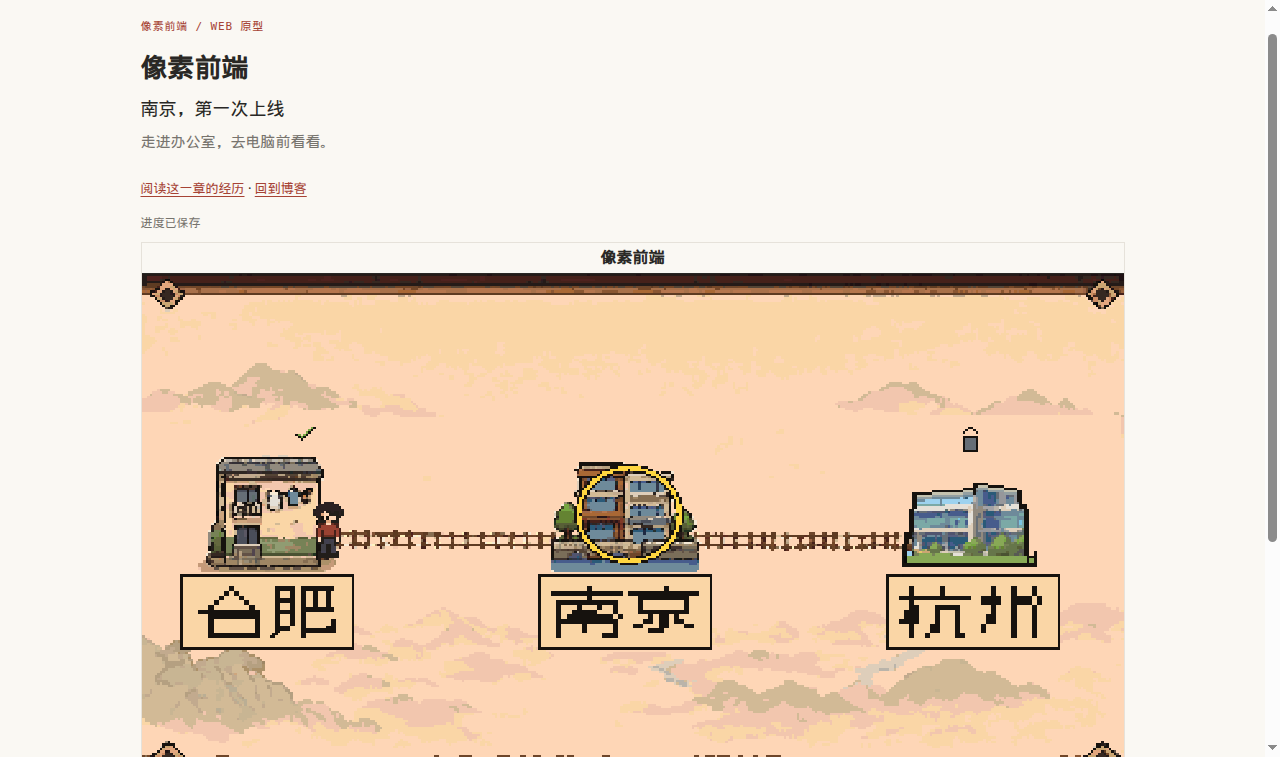
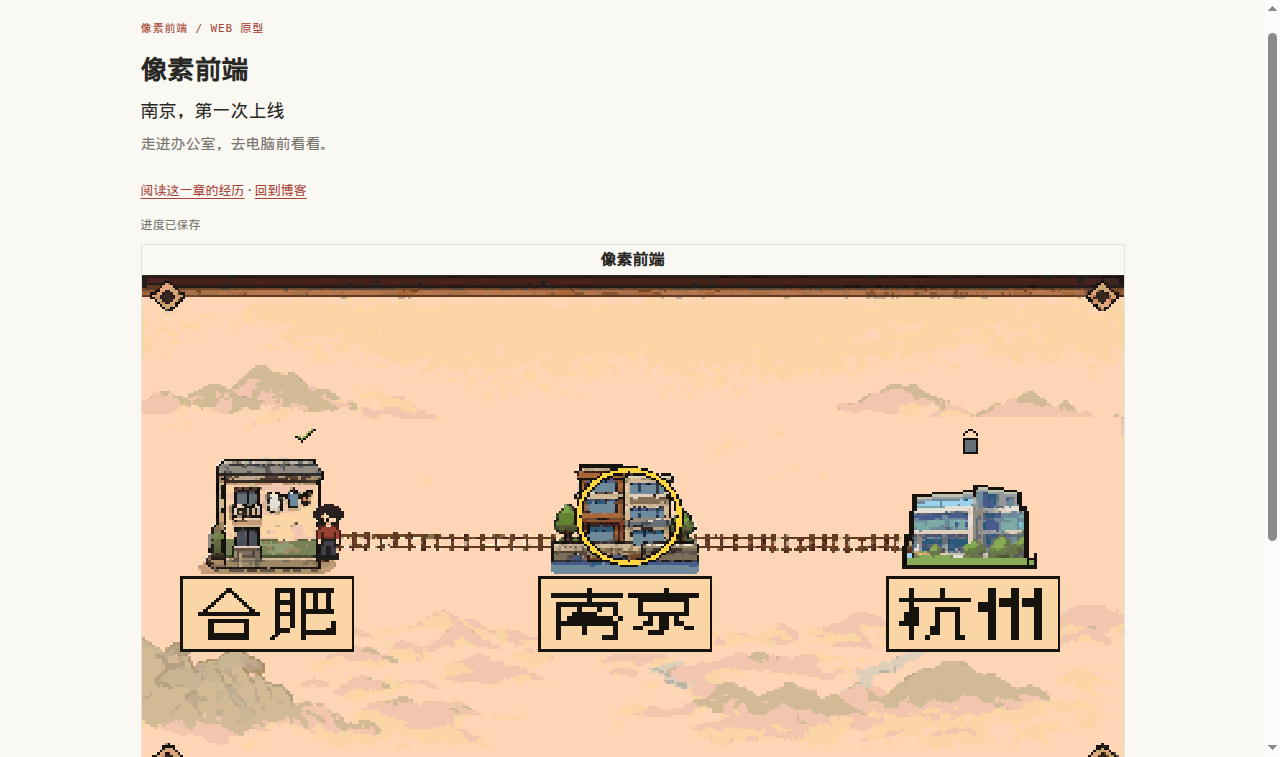
合的屋顶改尖，州的三竖加重
合的撇捺按行斜出，顶是尖的，一横和口还在。州用三像素竖笔通到字底，上沿各有一颗点。

diff --git a/games/career-rpg/handoff.md b/games/career-rpg/handoff.md
@@ -2,7 +2,7 @@
 
 ## 当前恢复点（2026-11-05，杭州换皮与改名）
 
-用户确认杭州美术和改名。运行图在 `web/art/hangzhou/`，旅程地图换成 v2，空地名牌由程序叠「合肥 / 南京 / 杭州」。地名牌加到 68×32，字身 28×22，按整数坐标 1:1 贴上。游戏名是《像素前端》，旧口号已从玩家界面去掉。Webpack 和 Babel 共用左下那一屏：先读 Webpack，再读 Babel，然后在同一屏上先后拾取。不修走路卡顿，不做坐姿。
+用户确认杭州美术和改名。运行图在 `web/art/hangzhou/`，旅程地图换成 v2，空地名牌由程序叠「合肥 / 南京 / 杭州」。地名牌 68×32，字身 28×22。合的屋顶是尖的撇捺，州是三颗点加通长竖笔。游戏名是《像素前端》，旧口号已从玩家界面去掉。Webpack 和 Babel 共用左下那一屏：先读 Webpack，再读 Babel，然后在同一屏上先后拾取。不修走路卡顿，不做坐姿。
 
 ## 当前恢复点（2026-11-05，南京技能与旅程地图）
 
